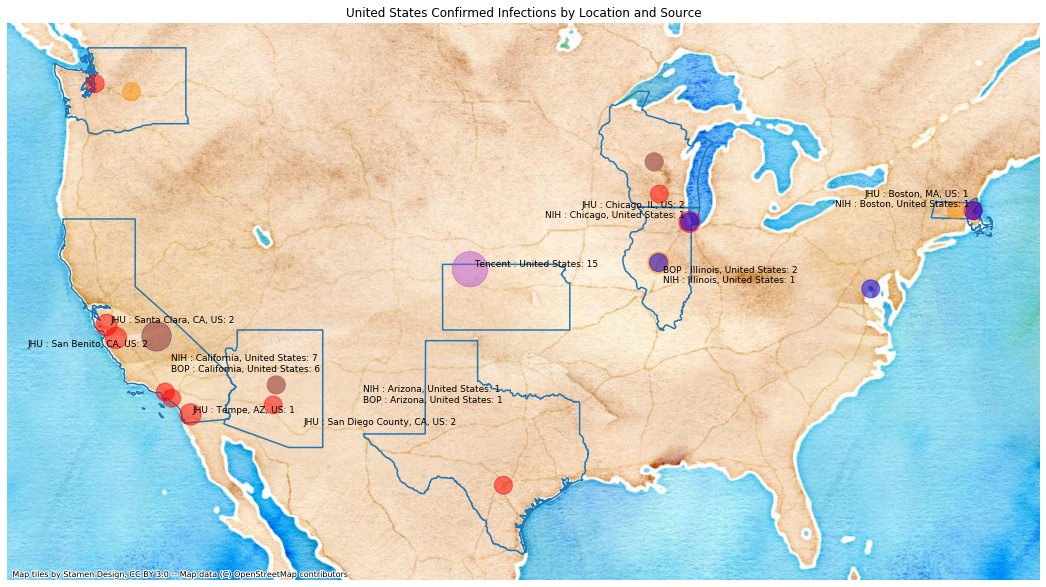
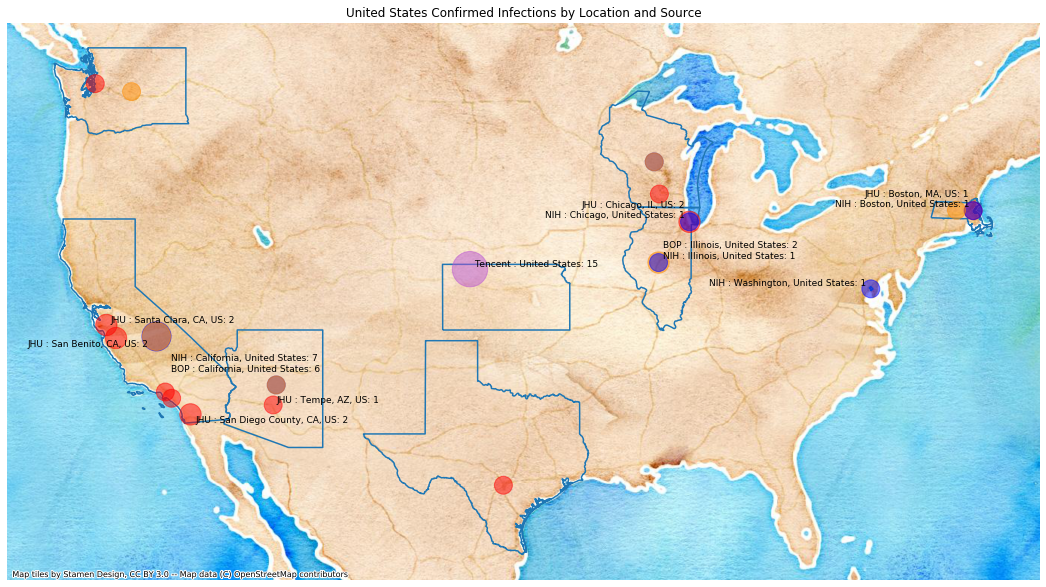
updating tables

Changed region(s): [[0.1836, 0.644, 0.4589, 0.7359], [0.6119, 0.3986, 0.826, 0.4906]]

diff --git a/country_reports/United_States_report.md b/country_reports/United_States_report.md
@@ -38,12 +38,12 @@ Data sources: BOP, JHU, NIH-Fogarty, Tencent
 |----|----------|---------------------------------|-------------|
 |  0 | Tencent  | United States                   |          15 |
 |  1 | NIH      | California, United States       |           7 |
-|  2 | NIH      | Boston, United States           |           1 |
+|  2 | NIH      | Washington, United States       |           1 |
 |  3 | NIH      | Arizona, United States          |           1 |
-|  4 | NIH      | Washington, United States       |           1 |
-|  5 | NIH      | Illinois, United States         |           1 |
-|  6 | NIH      | Wisconsin, United States        |           1 |
-|  7 | NIH      | Chicago, United States          |           1 |
+|  4 | NIH      | Boston, United States           |           1 |
+|  5 | NIH      | Chicago, United States          |           1 |
+|  6 | NIH      | Illinois, United States         |           1 |
+|  7 | NIH      | Wisconsin, United States        |           1 |
 |  8 | JHU      | San Benito, CA, US              |           2 |
 |  9 | JHU      | Chicago, IL, US                 |           2 |
 | 10 | JHU      | San Diego County, CA, US        |           2 |
@@ -58,8 +58,8 @@ Data sources: BOP, JHU, NIH-Fogarty, Tencent
 | 19 | BOP      | California, United States       |           6 |
 | 20 | BOP      | Illinois, United States         |           2 |
 | 21 | BOP      | Massachusetts, United States    |           1 |
-| 22 | BOP      | Arizona, United States          |           1 |
-| 23 | BOP      | Washington State, United States |           1 |
+| 22 | BOP      | Washington State, United States |           1 |
+| 23 | BOP      | Arizona, United States          |           1 |
 | 24 | BOP      | Wisconsin, United States        |           1 |
 
 Data sources: BOP, JHU, NIH-Fogarty, Tencent

diff --git a/country_reports/Australia_report.md b/country_reports/Australia_report.md
@@ -38,16 +38,16 @@ Data sources: BOP, JHU, NIH-Fogarty, Tencent
 |----|----------|----------------------------|-------------|
 |  0 | Tencent  | Australia                  |          15 |
 |  1 | NIH      | Queensland, Australia      |           5 |
-|  2 | NIH      | NSW, Australia             |           4 |
-|  3 | NIH      | Victoria, Australia        |           4 |
+|  2 | NIH      | Victoria, Australia        |           4 |
+|  3 | NIH      | NSW, Australia             |           4 |
 |  4 | NIH      | South Australia, Australia |           2 |
 |  5 | JHU      | Queensland, Australia      |           5 |
 |  6 | JHU      | New South Wales, Australia |           4 |
 |  7 | JHU      | Victoria, Australia        |           4 |
 |  8 | JHU      | South Australia, Australia |           2 |
 |  9 | BOP      | Queensland, Australia      |           5 |
-| 10 | BOP      | NSW, Australia             |           4 |
-| 11 | BOP      | Victoria, Australia        |           4 |
+| 10 | BOP      | Victoria, Australia        |           4 |
+| 11 | BOP      | NSW, Australia             |           4 |
 | 12 | BOP      | South Australia, Australia |           2 |
 
 Data sources: BOP, JHU, NIH-Fogarty, Tencent
